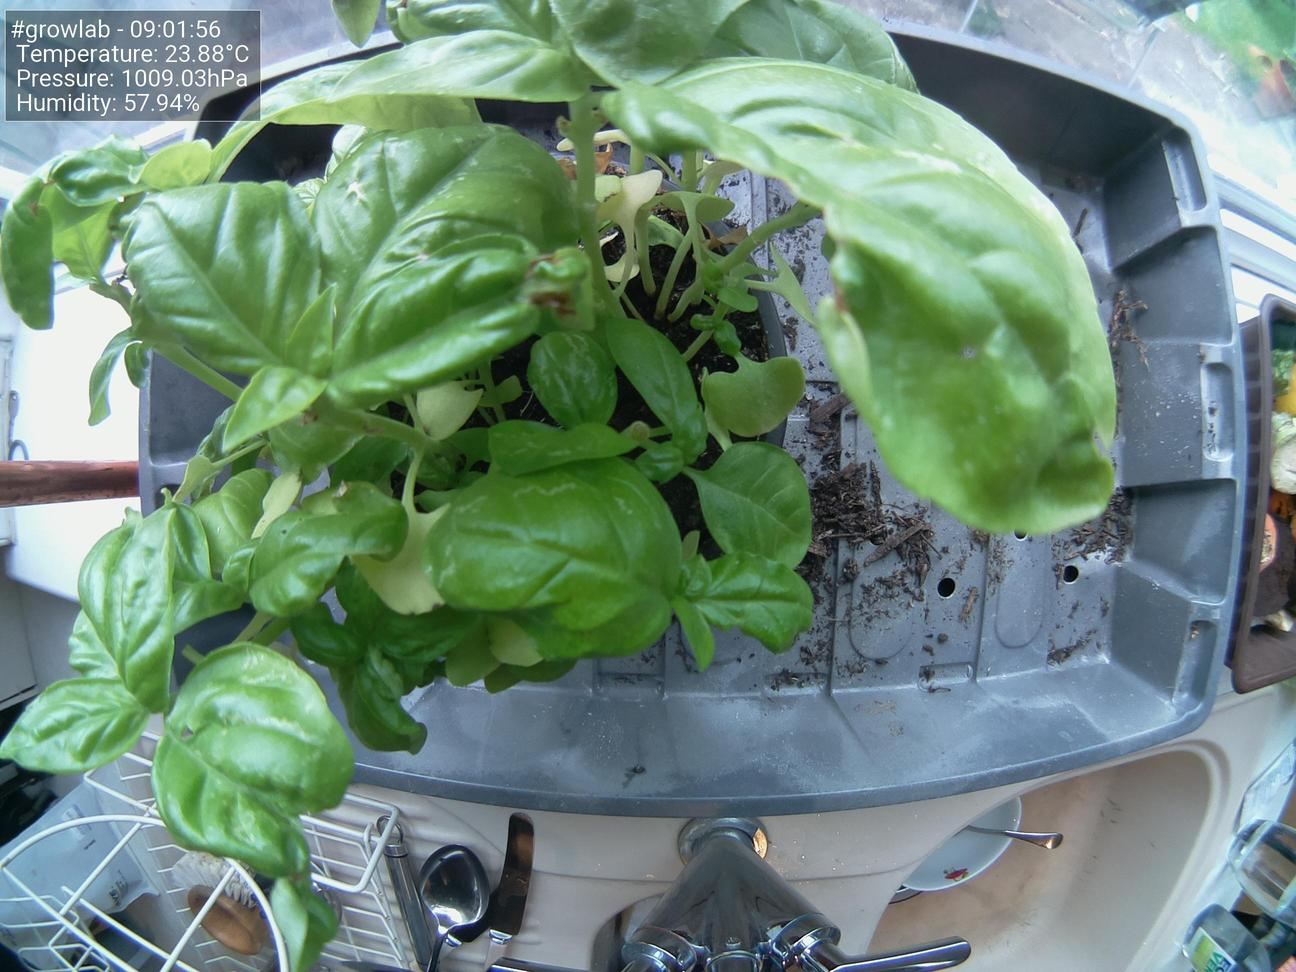
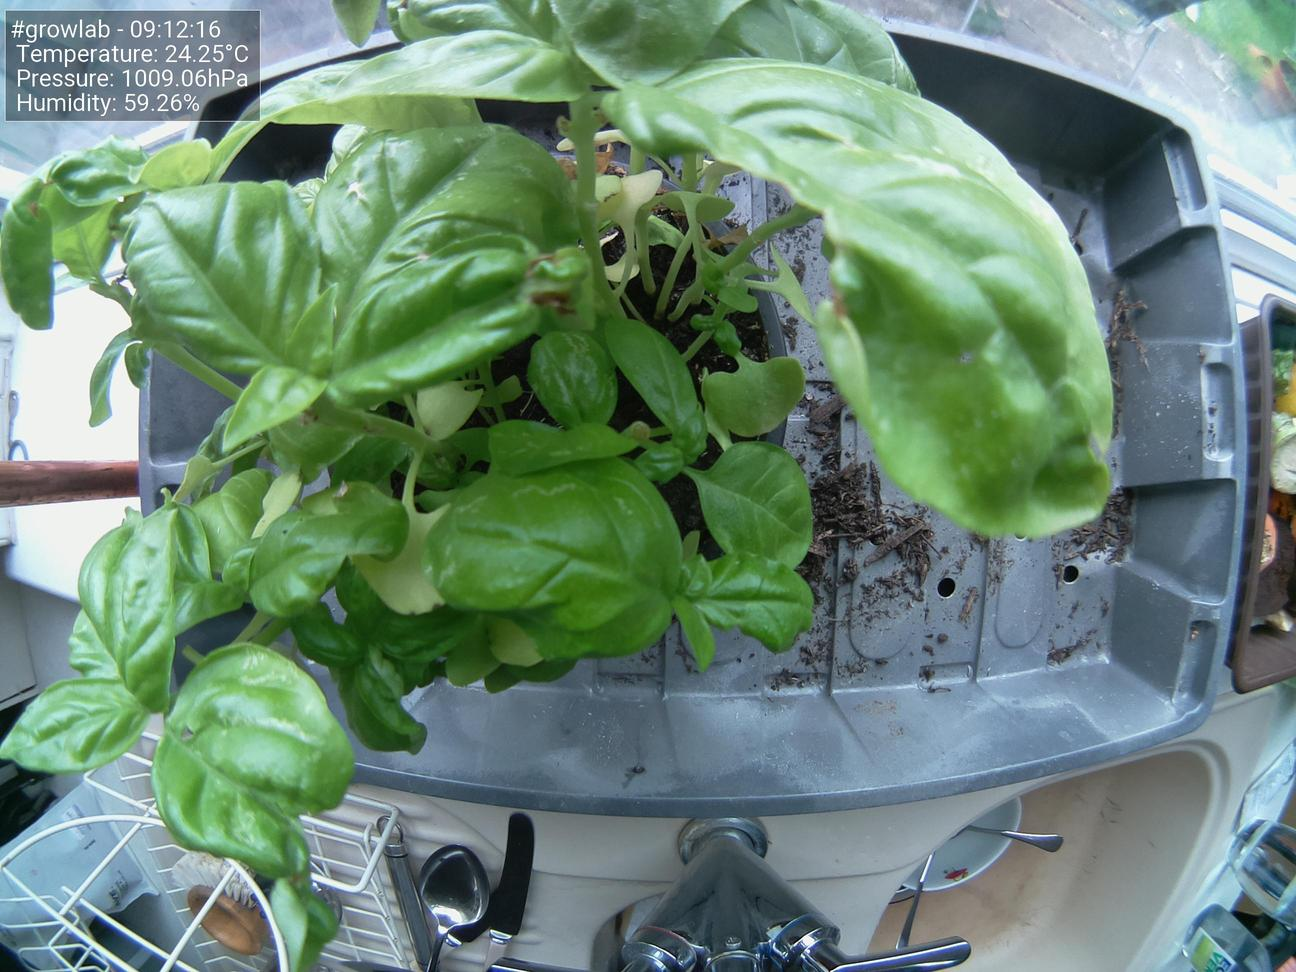
Update images at Mon  9 Aug 09:12:25 BST 2021

diff --git a/docs/index.html b/docs/index.html
@@ -47,19 +47,19 @@
                         <tbody>
                             <tr>
                                 <td>Time</td>
-                                <td>09:01:56</td>
+                                <td>09:12:16</td>
                             </tr>
                             <tr>
                                 <td>Temperature</td>
-                                <td>23.88°C</td>
+                                <td>24.25°C</td>
                             </tr>
                             <tr>
                                 <td>Humidity</td>
-                                <td>57.94%</td>
+                                <td>59.26%</td>
                             </tr>
                             <tr>
                                 <td>Pressure</td>
-                                <td>1009.03hPa</td>
+                                <td>1009.06hPa</td>
                             </tr>
                         </tbody>
                     </table>
@@ -67,7 +67,7 @@
 
                 <h5>Latest image</h5>
                 <div style="width: 85%;">
-                            <img class="figure-img img-fluid rounded" src="./preview.jpg?uid=1628496125.5050073">
+                            <img class="figure-img img-fluid rounded" src="./preview.jpg?uid=1628496744.8414383">
                 </div>
             </div>
         </div>
